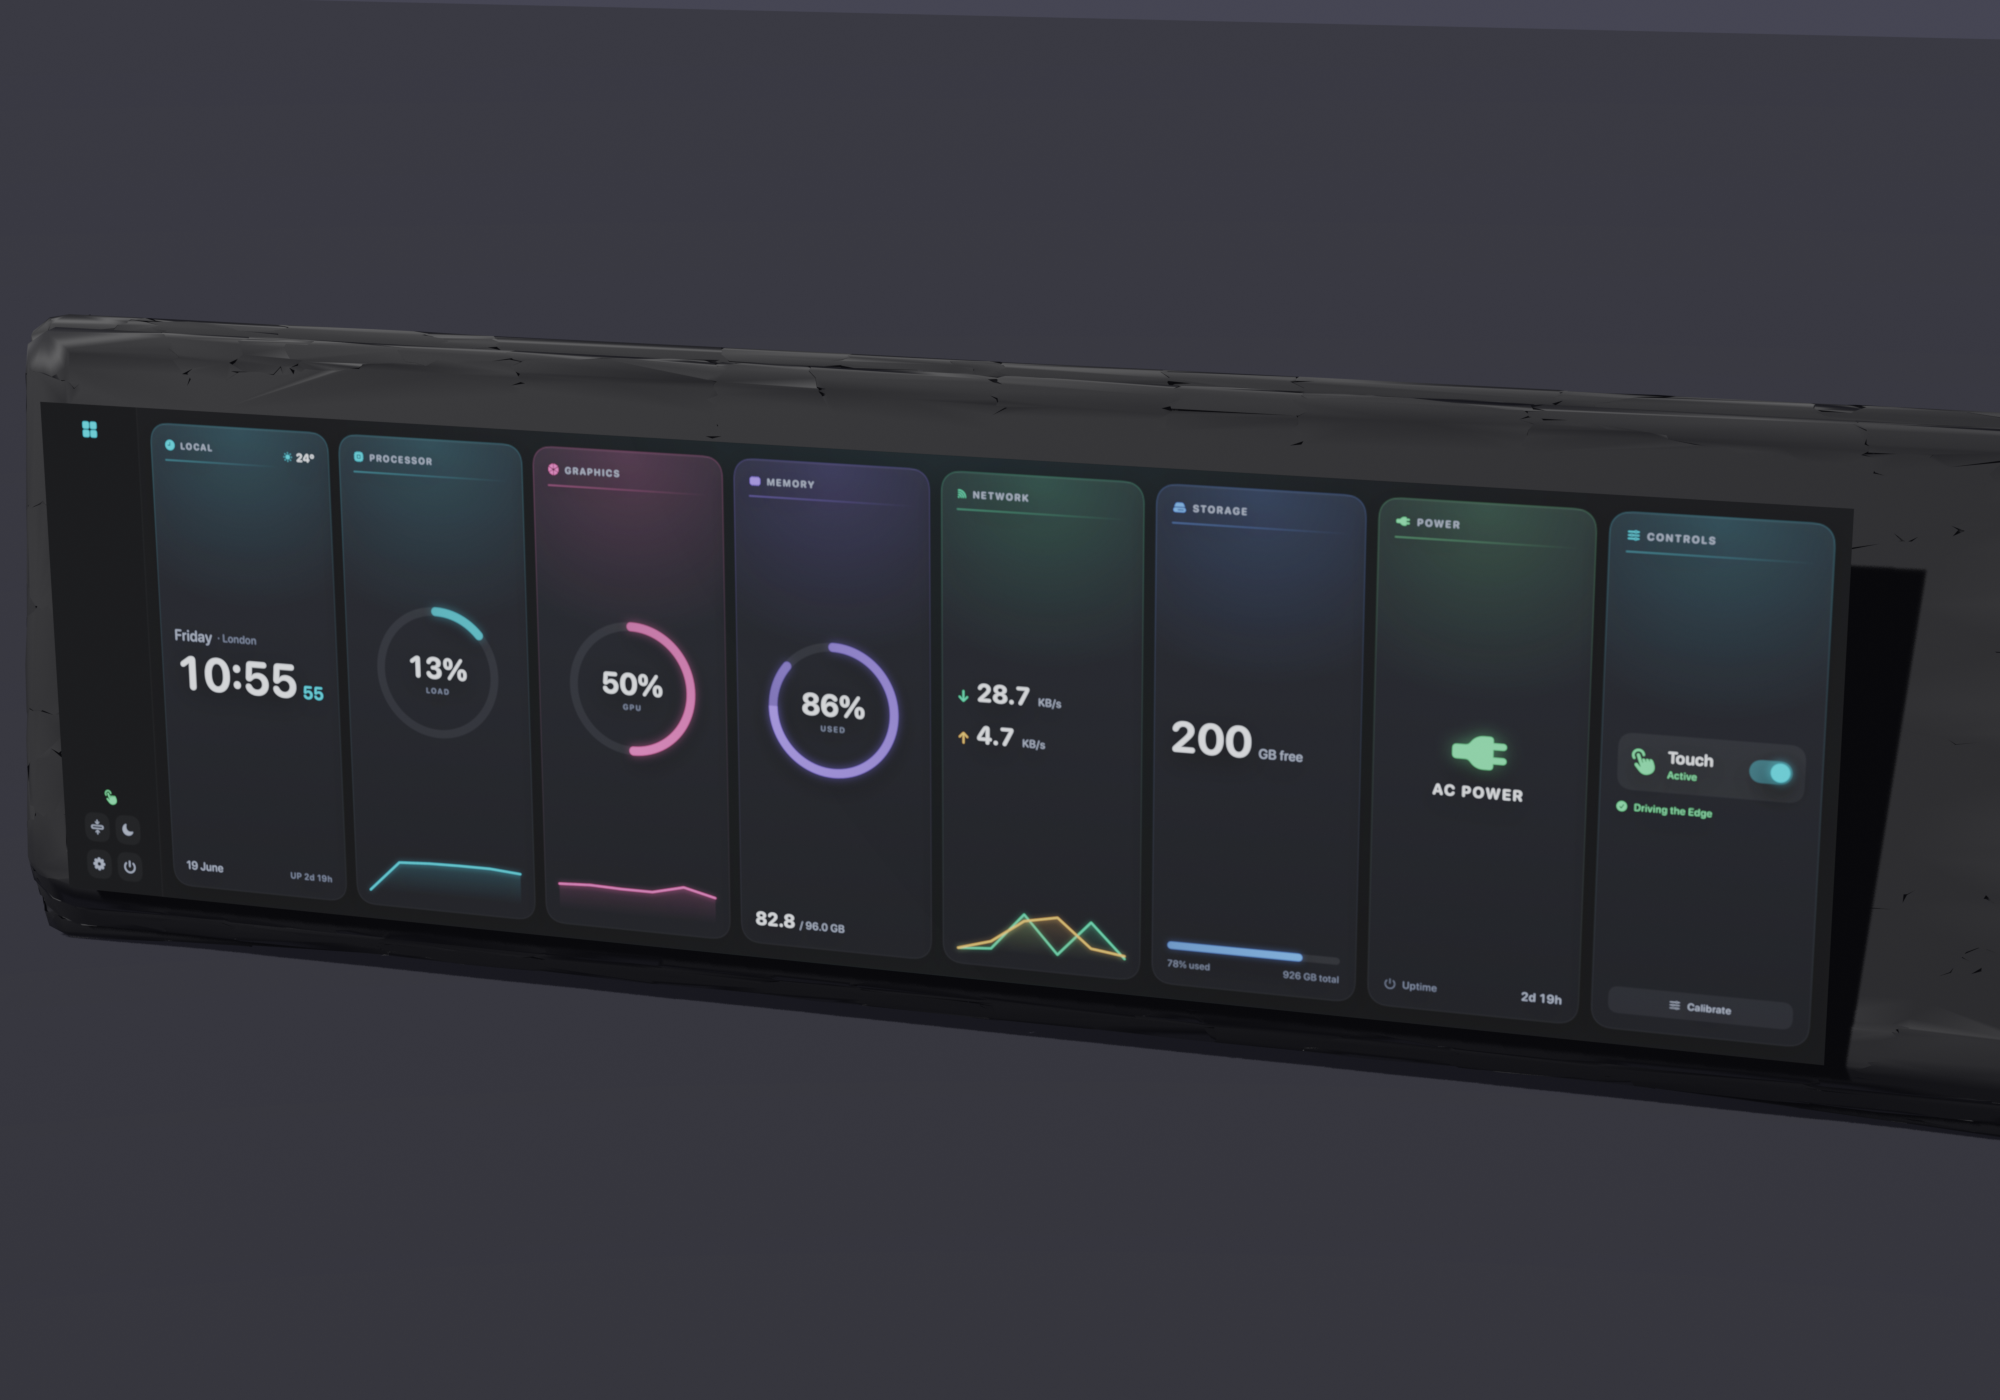
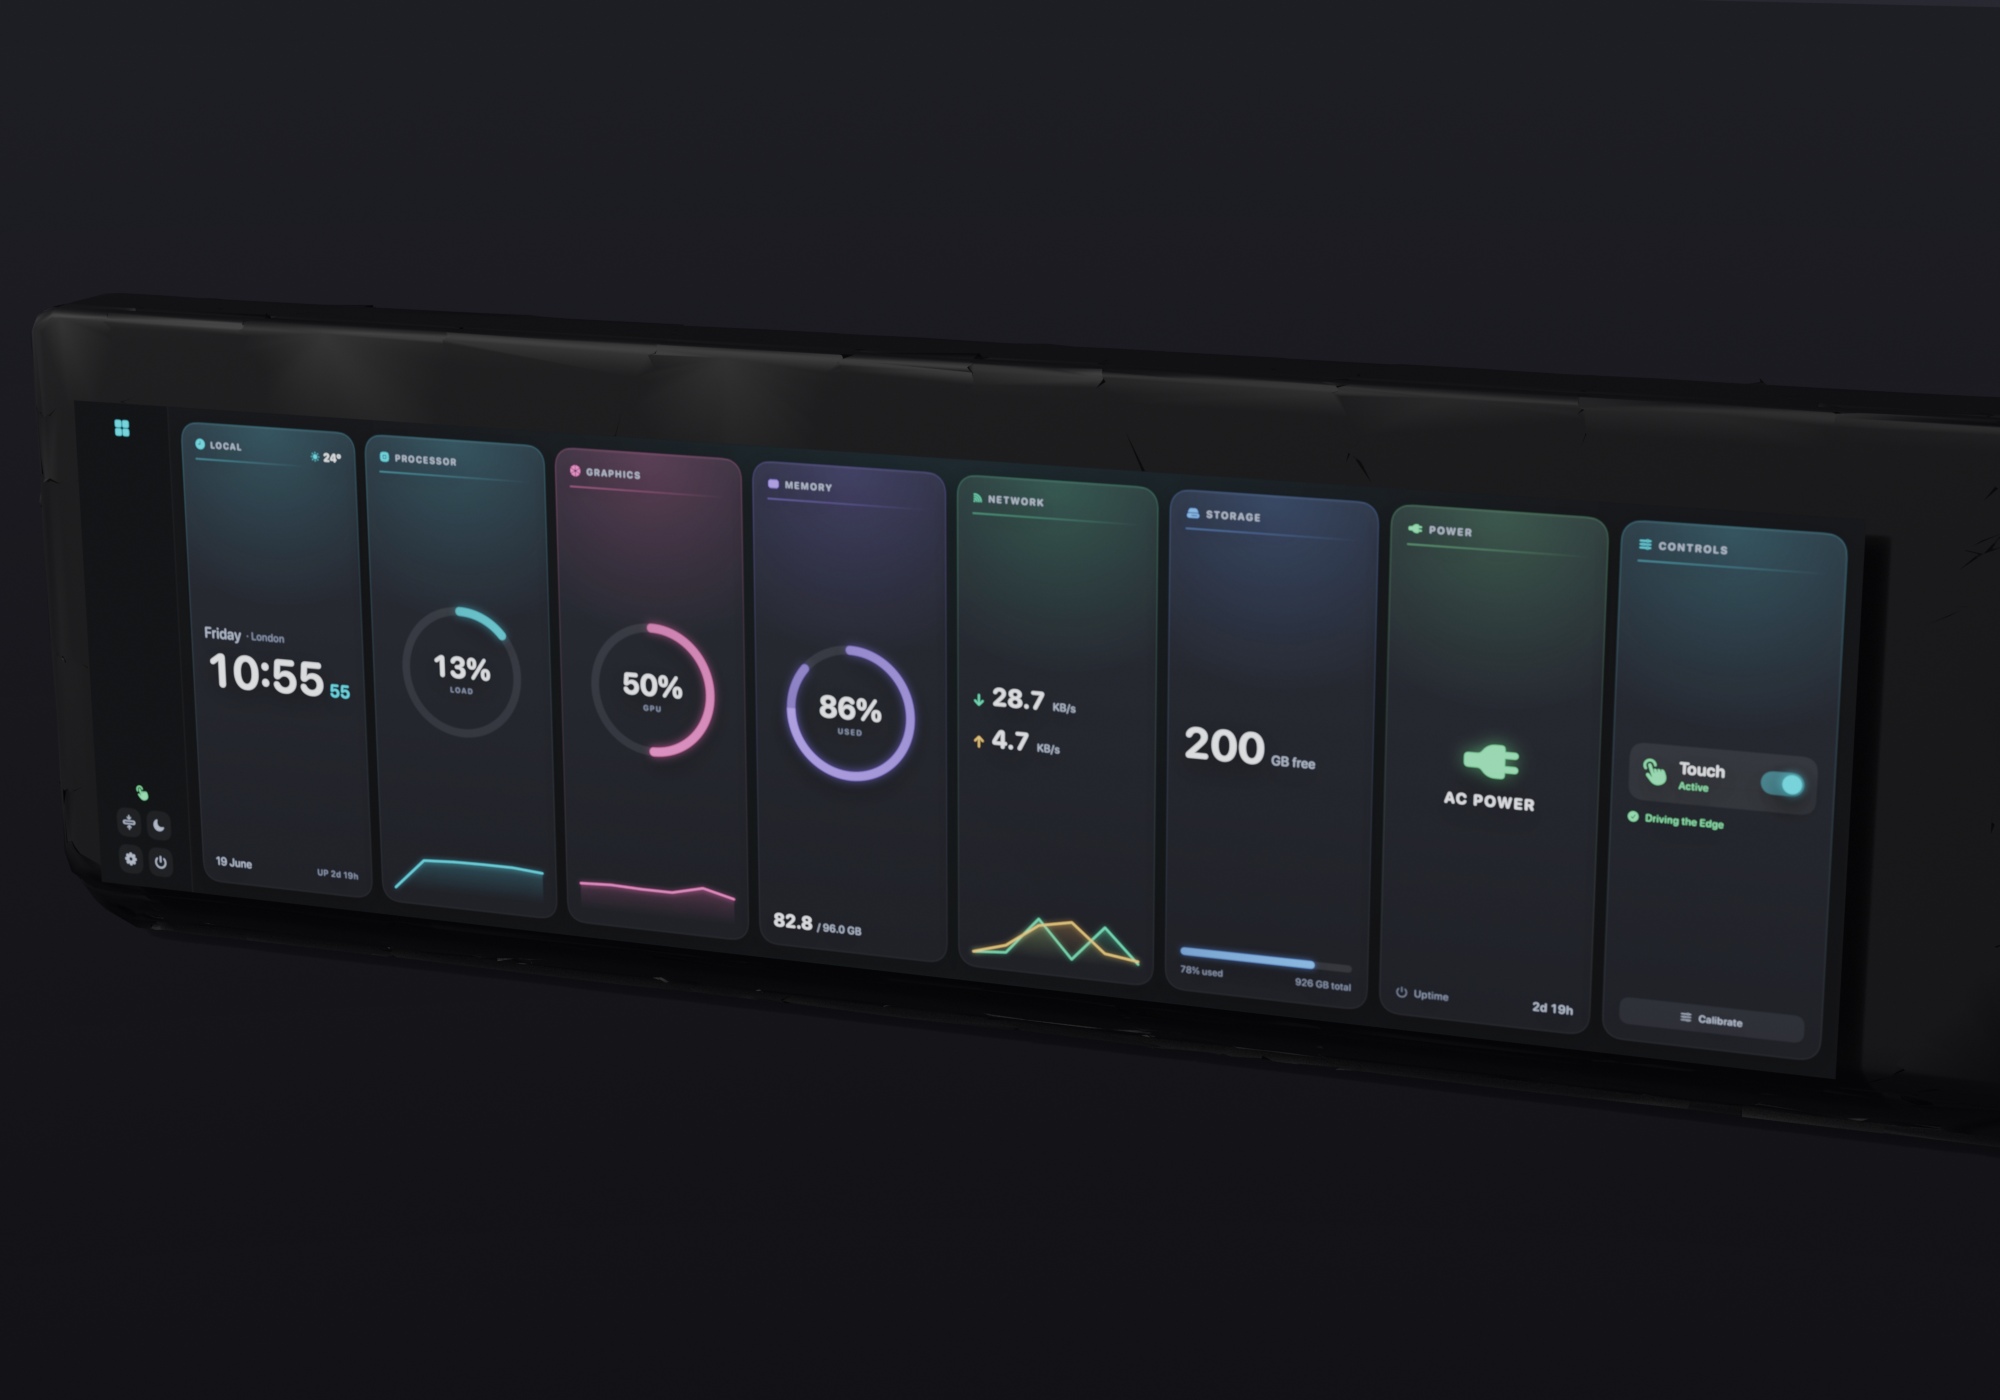
feat: Meshy multi-image-to-3D — gpt-image-2 multi-view input → truer thin geometry, refined + UI render

diff --git a/blender/meshy_multi.py b/blender/meshy_multi.py
@@ -1,0 +1,63 @@
+#!/usr/bin/env python3
+"""Meshy MULTI-image-to-3D: reconstruct a mesh from several views.
+
+  python3 meshy_multi.py <out.glb> <img1> <img2> [img3 ...]
+
+Uses api.meshy.ai/openapi/v1/multi-image-to-3d (ai_model meshy-6). Multiple
+views (esp. side/back) let Meshy recover the true thin proportions that a single
+3/4 image can't. Key from MESHY_API_KEY or /tmp/meshy-key.
+"""
+import os, sys, json, base64, time, urllib.request, urllib.error
+
+key = os.environ.get("MESHY_API_KEY")
+if not key and os.path.exists("/tmp/meshy-key"):
+    key = open("/tmp/meshy-key").read().strip()
+if not key:
+    print("no MESHY_API_KEY", file=sys.stderr); sys.exit(2)
+
+out = sys.argv[1]
+imgs = sys.argv[2:]
+BASE = "https://api.meshy.ai/openapi/v1"
+
+
+def data_url(p):
+    raw = open(p, "rb").read()
+    ext = p.lower().rsplit(".", 1)[-1]
+    mime = "image/jpeg" if ext in ("jpg", "jpeg") else "image/png"
+    return f"data:{mime};base64," + base64.b64encode(raw).decode()
+
+
+body = json.dumps({
+    "image_urls": [data_url(p) for p in imgs],
+    "ai_model": "meshy-6",
+    "should_texture": True, "enable_pbr": True,
+    "target_formats": ["glb"], "target_polycount": 30000,
+}).encode()
+req = urllib.request.Request(f"{BASE}/multi-image-to-3d", data=body,
+    headers={"Authorization": f"Bearer {key}", "Content-Type": "application/json"})
+try:
+    r = json.load(urllib.request.urlopen(req, timeout=60))
+except urllib.error.HTTPError as e:
+    print("CREATE HTTP", e.code, e.read().decode()[:500], file=sys.stderr); sys.exit(1)
+tid = r.get("result") or r.get("id")
+print("TASK", tid, flush=True)
+
+start = time.time()
+while time.time() - start < 600:
+    time.sleep(6)
+    pr = urllib.request.Request(f"{BASE}/multi-image-to-3d/{tid}", headers={"Authorization": f"Bearer {key}"})
+    try:
+        t = json.load(urllib.request.urlopen(pr, timeout=60))
+    except urllib.error.HTTPError as e:
+        print("POLL HTTP", e.code, e.read().decode()[:300], file=sys.stderr); continue
+    st = t.get("status")
+    print("STATUS", st, t.get("progress"), flush=True)
+    if st == "SUCCEEDED":
+        glb = (t.get("model_urls") or {}).get("glb")
+        if not glb:
+            print("no glb", file=sys.stderr); sys.exit(1)
+        open(out, "wb").write(urllib.request.urlopen(glb, timeout=180).read())
+        print("OK", out); sys.exit(0)
+    if st in ("FAILED", "CANCELED"):
+        print("FAIL", t.get("task_error"), file=sys.stderr); sys.exit(1)
+print("TIMEOUT", file=sys.stderr); sys.exit(1)